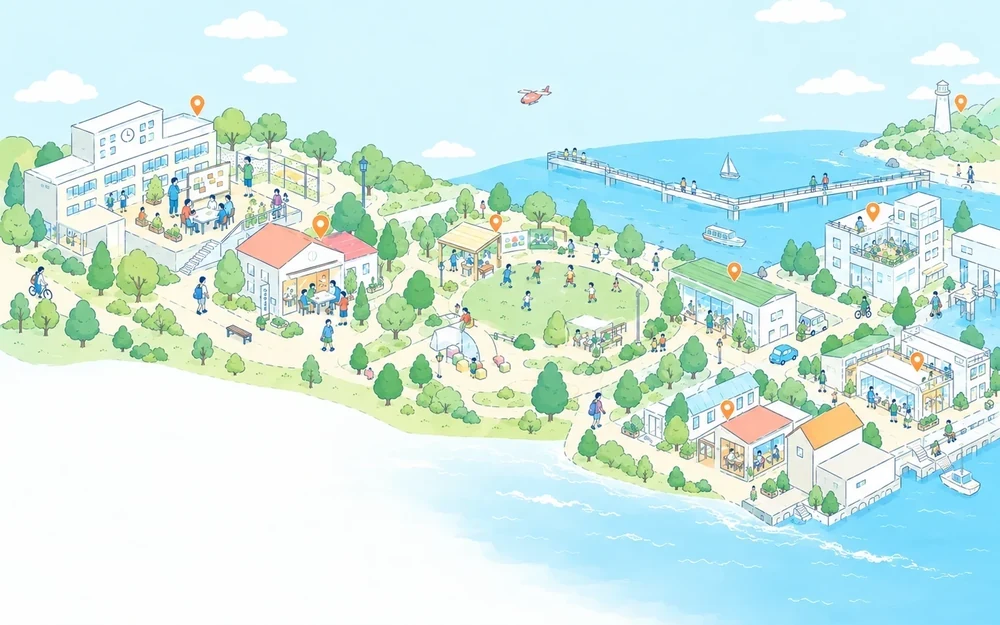
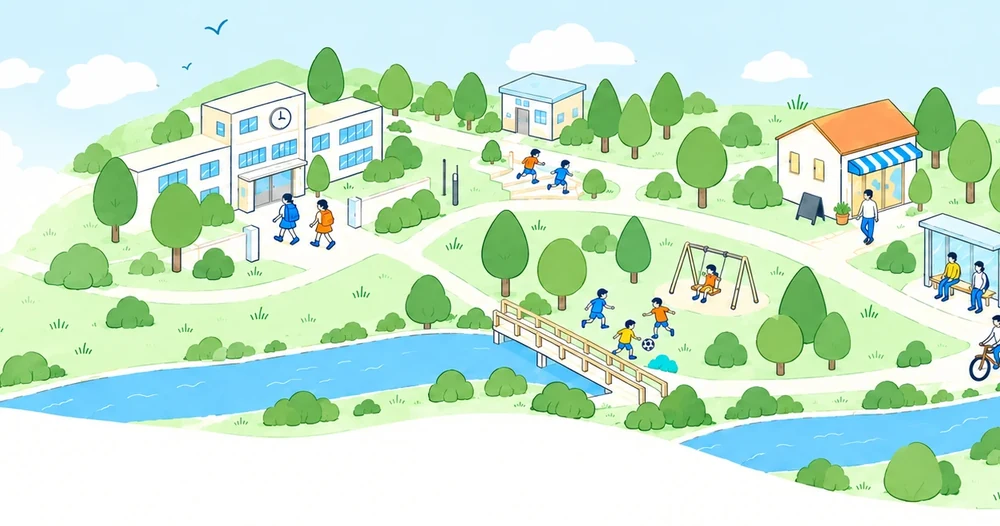
Switch the hero to the new line-drawn town illustration
The flat drawing replaces the watercolour map. Its off-white background is
normalised to the page white so the picture ends without a seam, the title
sits in the open space under the river, and a short viewport now trims both
ends instead of the top so the school and the shop stay in the first view.
The phone version is cropped to the town so it is not mostly empty.

diff --git a/top-c/index.html b/top-c/index.html
@@ -50,8 +50,8 @@ a{color:inherit}
    （--hero-cut はヘッダー＋試作の帯のぶん。本番では 78px にする） */
 .hero-full{position:relative;line-height:0;--hero-cut:120px}
 .hero-full img{width:100%;height:auto;display:block;
-  max-height:calc(100svh - var(--hero-cut));object-fit:cover;object-position:50% 100%}
-.hero-ttl{position:absolute;left:0;right:0;bottom:5%;z-index:2;
+  max-height:calc(100svh - var(--hero-cut));object-fit:cover;object-position:50% 45%}
+.hero-ttl{position:absolute;left:0;right:0;bottom:9%;z-index:2;
   max-width:1280px;margin:0 auto;padding:0 40px;line-height:1.18}
 .hero-ttl h1{font-weight:900;font-size:clamp(28px,4.6vw,66px);line-height:1.2;letter-spacing:.01em;
   margin:0;white-space:nowrap}
@@ -191,8 +191,8 @@ footer{border-top:1px solid var(--line);margin-top:30px;padding:36px 0 56px;colo
 <section class="hero" id="top">
   <div class="hero-full">
     <picture>
-      <source media="(max-width:700px)" srcset="../assets/hero-map-sp.webp" width="1000" height="625">
-      <img src="../assets/hero-map.webp" width="1402" height="1122" fetchpriority="high"
+      <source media="(max-width:700px)" srcset="../assets/hero-map-sp.webp" width="1000" height="526">
+      <img src="../assets/hero-map.webp" width="1671" height="941" fetchpriority="high"
         alt="学校・公園・川沿いのまちで、子どもたちが遊んだり集まったりしているようすを俯瞰で描いたイラスト">
     </picture>
     <div class="hero-ttl">
